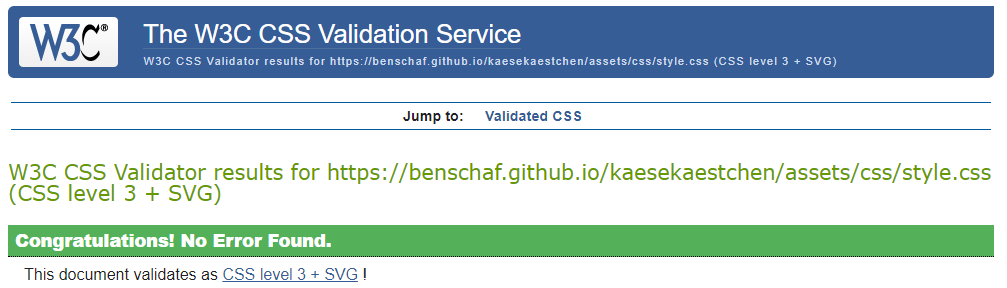
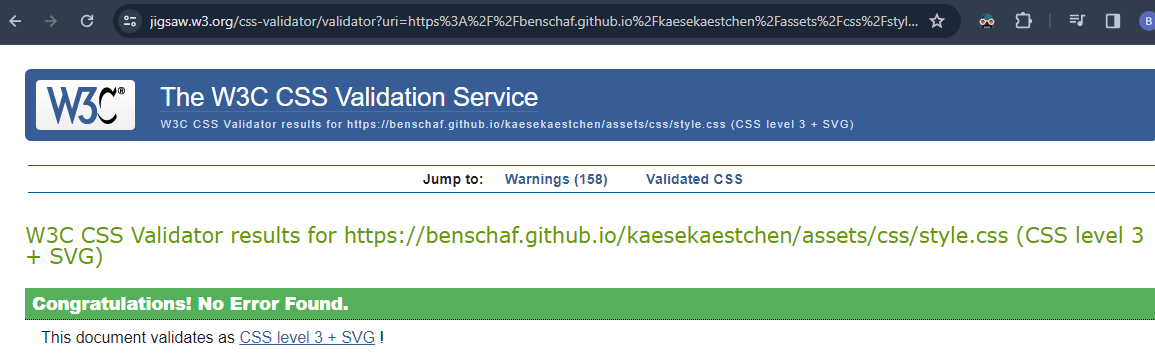
doc: update validation testing and badges

diff --git a/README.md b/README.md
@@ -8,7 +8,7 @@ Käsekästchen (German for: dots and boxes) is a web app that allows users to pl
 [![GitHub issues](https://img.shields.io/github/issues/benschaf/kaesekaestchen)](https://github.com/benschaf/kaesekaestchen/issues)
 [![GitHub closed issues](https://img.shields.io/github/issues-closed/benschaf/kaesekaestchen)](https://github.com/benschaf/kaesekaestchen/issues?q=is%3Aissue+is%3Aclosed)
 [![GitHub language count](https://img.shields.io/github/languages/count/benschaf/kaesekaestchen)](https://github.com/benschaf/kaesekaestchen)
-[![W3C Validation html](https://img.shields.io/w3c-validation/default?targetUrl=https%3A%2F%2Fbenschaf.github.io%2Fkaesekaestchen%2F&label=w3c%20html)](https://validator.w3.org/nu/?doc=https%3A%2F%2Fbenschaf.github.io%2Fkaesekaestchen%2F)
+[![W3C Validation html](https://img.shields.io/w3c-validation/default?targetUrl=https%3A%2F%2Fbenschaf.github.io%2Fkaesekaestchen%2F&label=w3c%20html)](https://validator.nu/?doc=https%3A%2F%2Fbenschaf.github.io%2Fkaesekaestchen%2F)
 [![W3C Validation css](https://img.shields.io/w3c-validation/default?targetUrl=https%3A%2F%2Fbenschaf.github.io%2Fkaesekaestchen%2Fassets%2Fcss%2Fstyle.css&label=w3c%20css)](https://jigsaw.w3.org/css-validator/validator?uri=https%3A%2F%2Fbenschaf.github.io%2Fkaesekaestchen%2Fassets%2Fcss%2Fstyle.css&profile=css3svg&usermedium=all&warning=1&vextwarning=&lang=en)
 
 _Note: The Validation badges do not always load correctly. If the badge reads "inaccessible", please click on the badge to view the validation results._

diff --git a/TESTING.md b/TESTING.md
@@ -8,12 +8,14 @@ Return back to the [README.md](README.md) file.
 
 I have used the recommended [HTML W3C Validator](https://validator.w3.org) to validate all of my html file: index.html.
 
-[![W3C Validation html](https://img.shields.io/w3c-validation/default?targetUrl=https%3A%2F%2Fbenschaf.github.io%2Fkaesekaestchen%2F&label=w3c%20html)](https://validator.w3.org/nu/?doc=https%3A%2F%2Fbenschaf.github.io%2Fkaesekaestchen%2F)
+[![W3C Validation html](https://img.shields.io/w3c-validation/default?targetUrl=https%3A%2F%2Fbenschaf.github.io%2Fkaesekaestchen%2F&label=w3c%20html)](https://validator.nu/?doc=https%3A%2F%2Fbenschaf.github.io%2Fkaesekaestchen%2F)
 
 Click the badge above to validate the live deployed site.
 
 Screenshot of the validation results:
 ![screenshot](documentation/validation-html.png)
+
+The two warnings displayed are concerning the `<dialog>` element. Broswer support for this element has gotten very good and the warnings are not critical. Check out a summary of the [browser compatibility](https://developer.mozilla.org/en-US/docs/Web/HTML/Element/dialog?retiredLocale=de) for the `<dialog>` element.
 
 ### CSS
 
@@ -25,6 +27,8 @@ Click the badge above to validate the live deployed site.
 
 Screenshot of the validation results:
 ![screenshot](documentation/validation-css.png)
+
+The 158 warnings are all due to running the css file through [autoprefixer](https://autoprefixer.github.io/). The warnings are not critical and do not affect the functionality of the code.
 
 ### JavaScript
 
